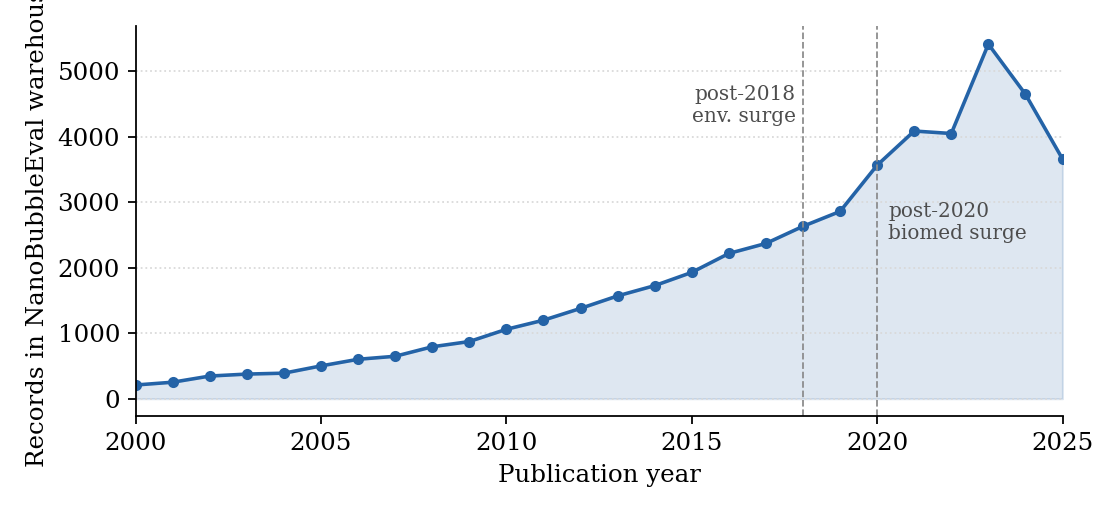
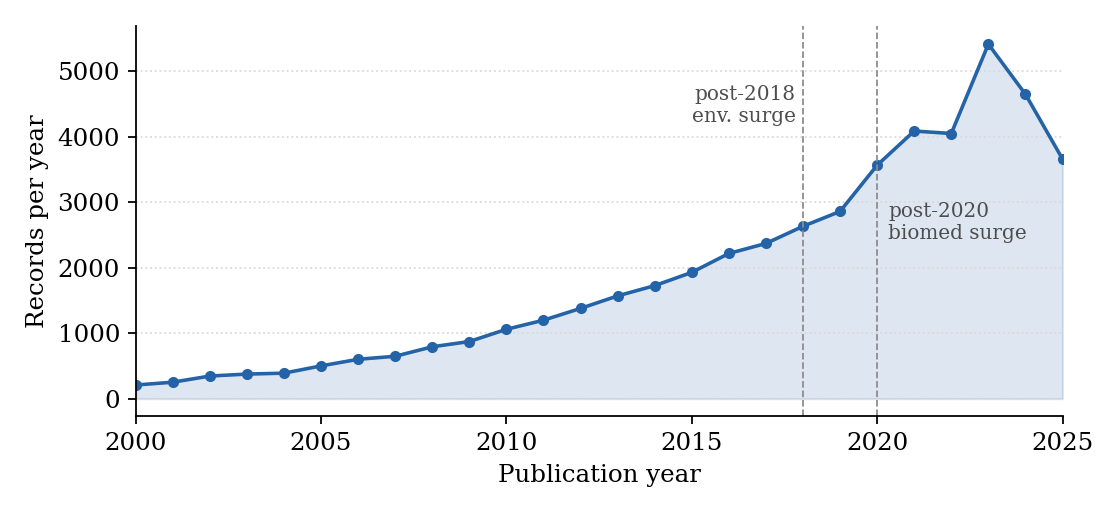
Shorten publication-volume figure y-axis label
The previous label 'Records in NanoBubbleEval warehouse' was too long
for the available width and got clipped. Replaced with 'Records per
year', which fits cleanly and is self-explanatory given the x-axis
already says 'Publication year'. Figure regenerated from the same
51,566-record warehouse data; n=49,340 unchanged.

diff --git a/scripts/verification/build_publication_volume_figure.py b/scripts/verification/build_publication_volume_figure.py
@@ -64,7 +64,7 @@ def main() -> int:
                 fontsize=9, color="0.30", ha="left")
 
     ax.set_xlabel("Publication year")
-    ax.set_ylabel("Records in NanoBubbleEval warehouse")
+    ax.set_ylabel("Records per year")
     ax.set_xlim(2000, 2025)
     ax.set_xticks([2000, 2005, 2010, 2015, 2020, 2025])
     ax.grid(axis="y", linestyle=":", color="0.85")